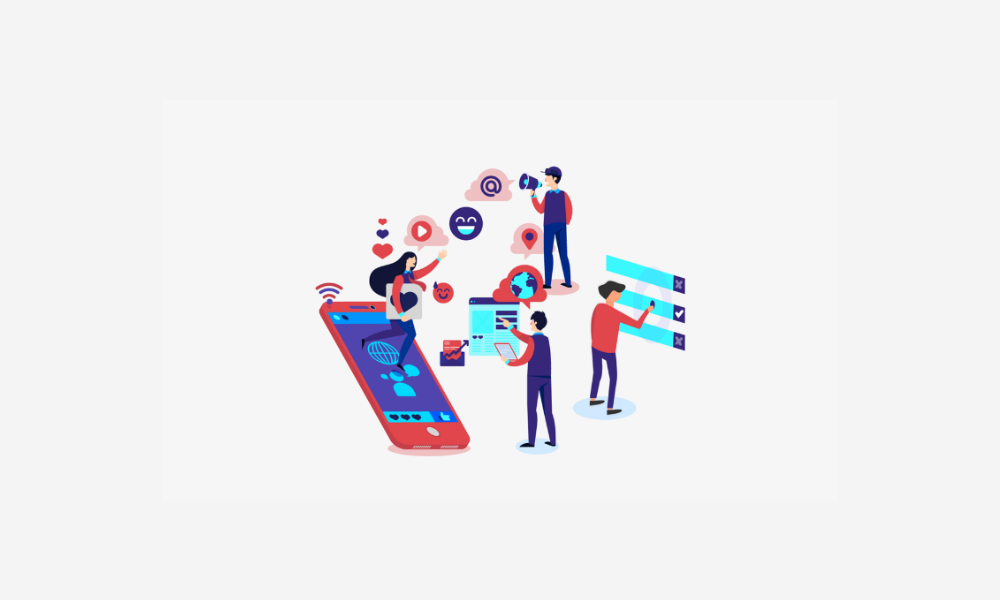
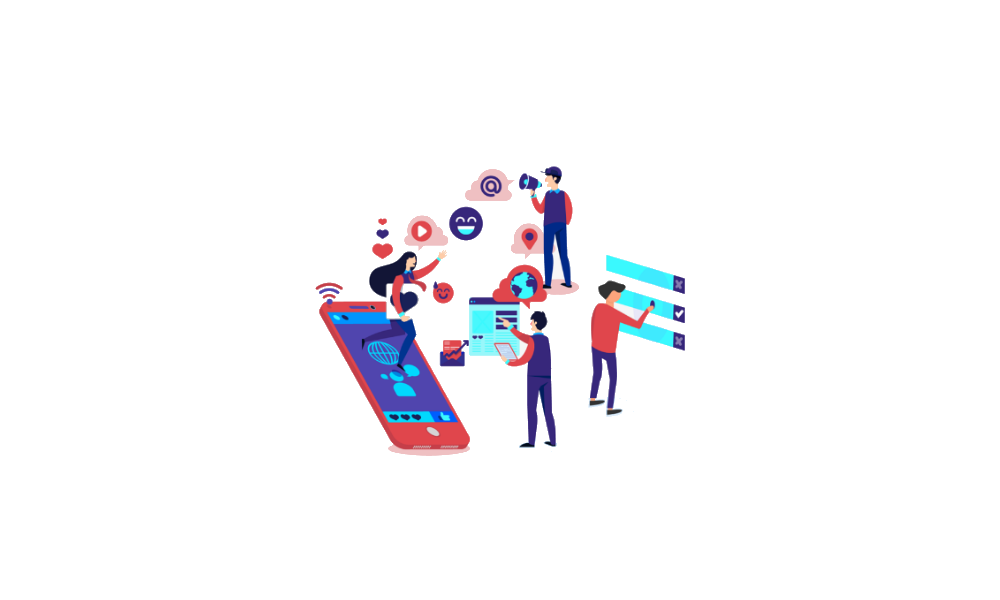
Changed landing page image

Changed region(s): [[0.372, 0.45, 0.434, 0.54], [0.558, 0.66, 0.651, 0.72], [0.496, 0.72, 0.558, 0.78]]

diff --git a/components/landing-page.tsx b/components/landing-page.tsx
@@ -125,7 +125,7 @@ export default function MertyMGMTLanding() {
           <div className="lg:absolute lg:inset-y-0 lg:right-0 lg:w-1/2">
             <Image
               className="h-56 w-full object-cover sm:h-72 md:h-96 lg:w-full lg:h-full"
-              src="https://hebbkx1anhila5yf.public.blob.vercel-storage.com/Untitled%20design%20(2)-S7nWnS3VOgzDp3mEYAEwe8ocHx72tQ.png"
+              src="https://github.com/RonanGrennan/RonanGrennan.github.io/blob/main/assets/background-image.png?raw=true"
               alt="Social media marketing illustration"
               width={800}
               height={600}
